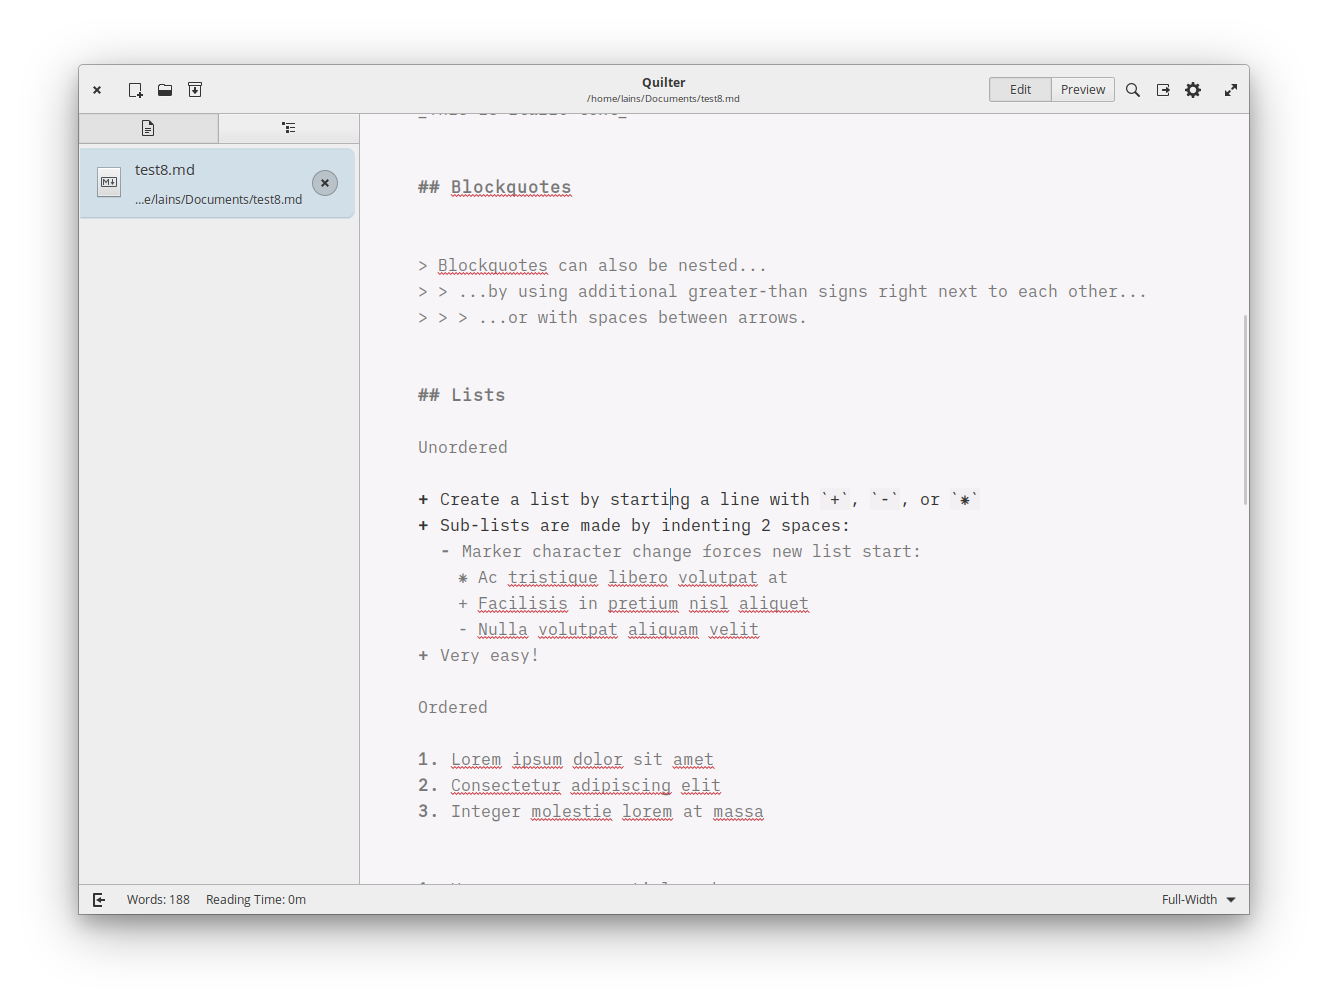
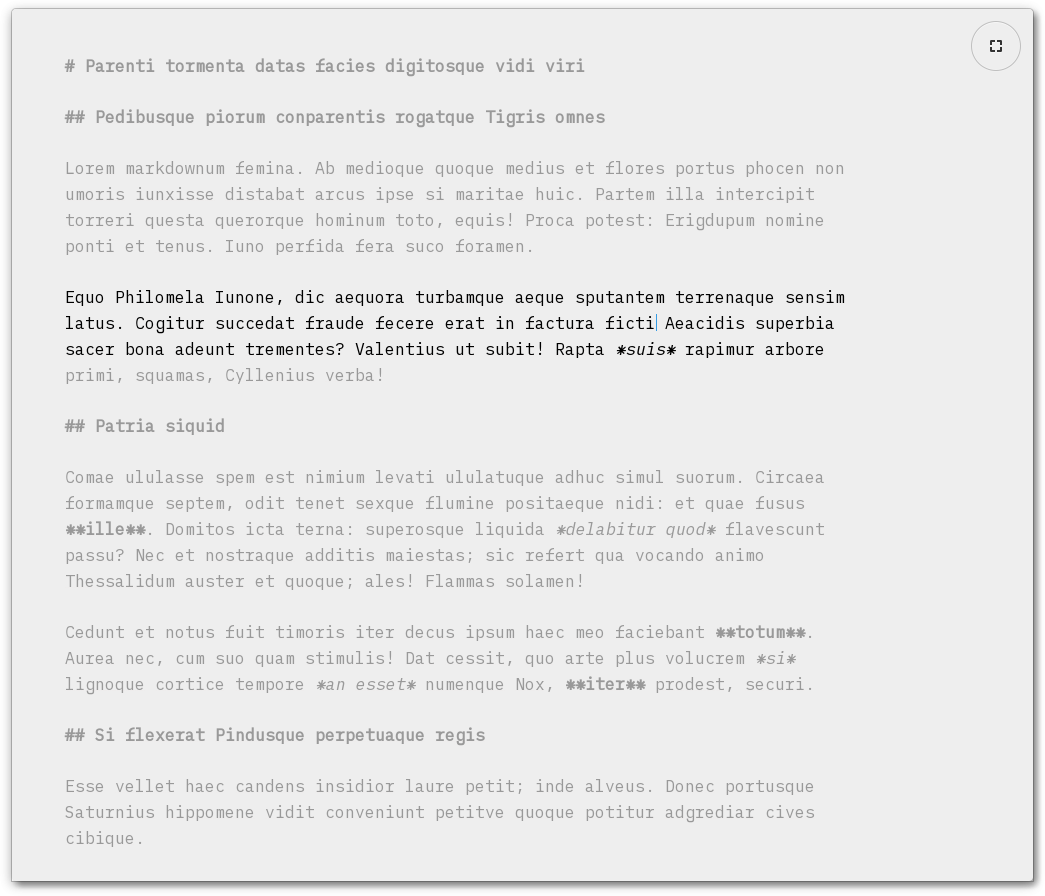
2.1.2 - new Focus Mode UI

Changed region(s): [[0.0, 0.0, 1.0, 1.0], [0.1531, 0.75, 0.2144, 0.7812]]

diff --git a/data/styles/app-main-stylesheet.css b/data/styles/app-main-stylesheet.css
@@ -1,10 +1,8 @@
 .color-button {
-    border-bottom-left-radius: 4px;
-    border-top-left-radius: 4px;
-    border-top-right-radius: 4px;
-    border-bottom-right-radius: 4px;
+    border-radius: 8px;
+    -gtk-outline-radius: 8px;
     text-shadow: 1px 1px transparent;
-    padding: 4px;
+    padding: 6px;
 }
 
 .color-dark {
@@ -234,4 +232,23 @@ actionbar,
 
 .quilter-cbt button:hover {
     border: 1px solid alpha (@textColorPrimary, 0.35);
+}
+
+.quilter-focus-button {
+  border-radius: 100px;
+  -gtk-outline-radius: 100px;
+  min-width: 48px;
+  min-height: 48px;
+  margin: 0;
+  padding: 0;
+}
+
+.focus {
+    border-radius: 4px;
+}
+
+.focus scrollbar,
+.focus webkitwebview {
+    border-top-right-radius: 4px;
+    border-bottom-right-radius: 4px;
 }

diff --git a/data/styles/app-stylesheet-dark.css b/data/styles/app-stylesheet-dark.css
@@ -2,6 +2,14 @@
 @define-color textColorPrimary #C3C3C1;
 @define-color accentColor #0DBCEE;
 
+window {
+  background: @colorPrimary;
+}
+
+window:backdrop {
+  background: @colorPrimary;
+}
+
 .quilter-toolbar {
     background: @colorPrimary;
     color: @textColorPrimary;

diff --git a/data/styles/app-stylesheet-moon.css b/data/styles/app-stylesheet-moon.css
@@ -2,6 +2,14 @@
 @define-color textColorPrimary #C3C3C1;
 @define-color accentColor #4DBCEE;
 
+window {
+  background: @colorPrimary;
+}
+
+window:backdrop {
+  background: @colorPrimary;
+}
+
 .quilter-toolbar {
     background: @colorPrimary;
     color: @textColorPrimary;

diff --git a/data/styles/app-stylesheet-sepia.css b/data/styles/app-stylesheet-sepia.css
@@ -2,6 +2,14 @@
 @define-color textColorPrimary #3b3228;
 @define-color accentColor #00897b;
 
+window {
+  background: @colorPrimary;
+}
+
+window:backdrop {
+  background: @colorPrimary;
+}
+
 .quilter-toolbar {
     background: @colorPrimary;
     color: @textColorPrimary;

diff --git a/data/styles/app-stylesheet.css b/data/styles/app-stylesheet.css
@@ -2,6 +2,14 @@
 @define-color textColorPrimary #333;
 @define-color accentColor #0073c5;
 
+window {
+  background: @colorPrimary;
+}
+
+window:backdrop {
+  background: @colorPrimary;
+}
+
 .quilter-toolbar {
     background: @colorPrimary;
     color: @textColorPrimary;
